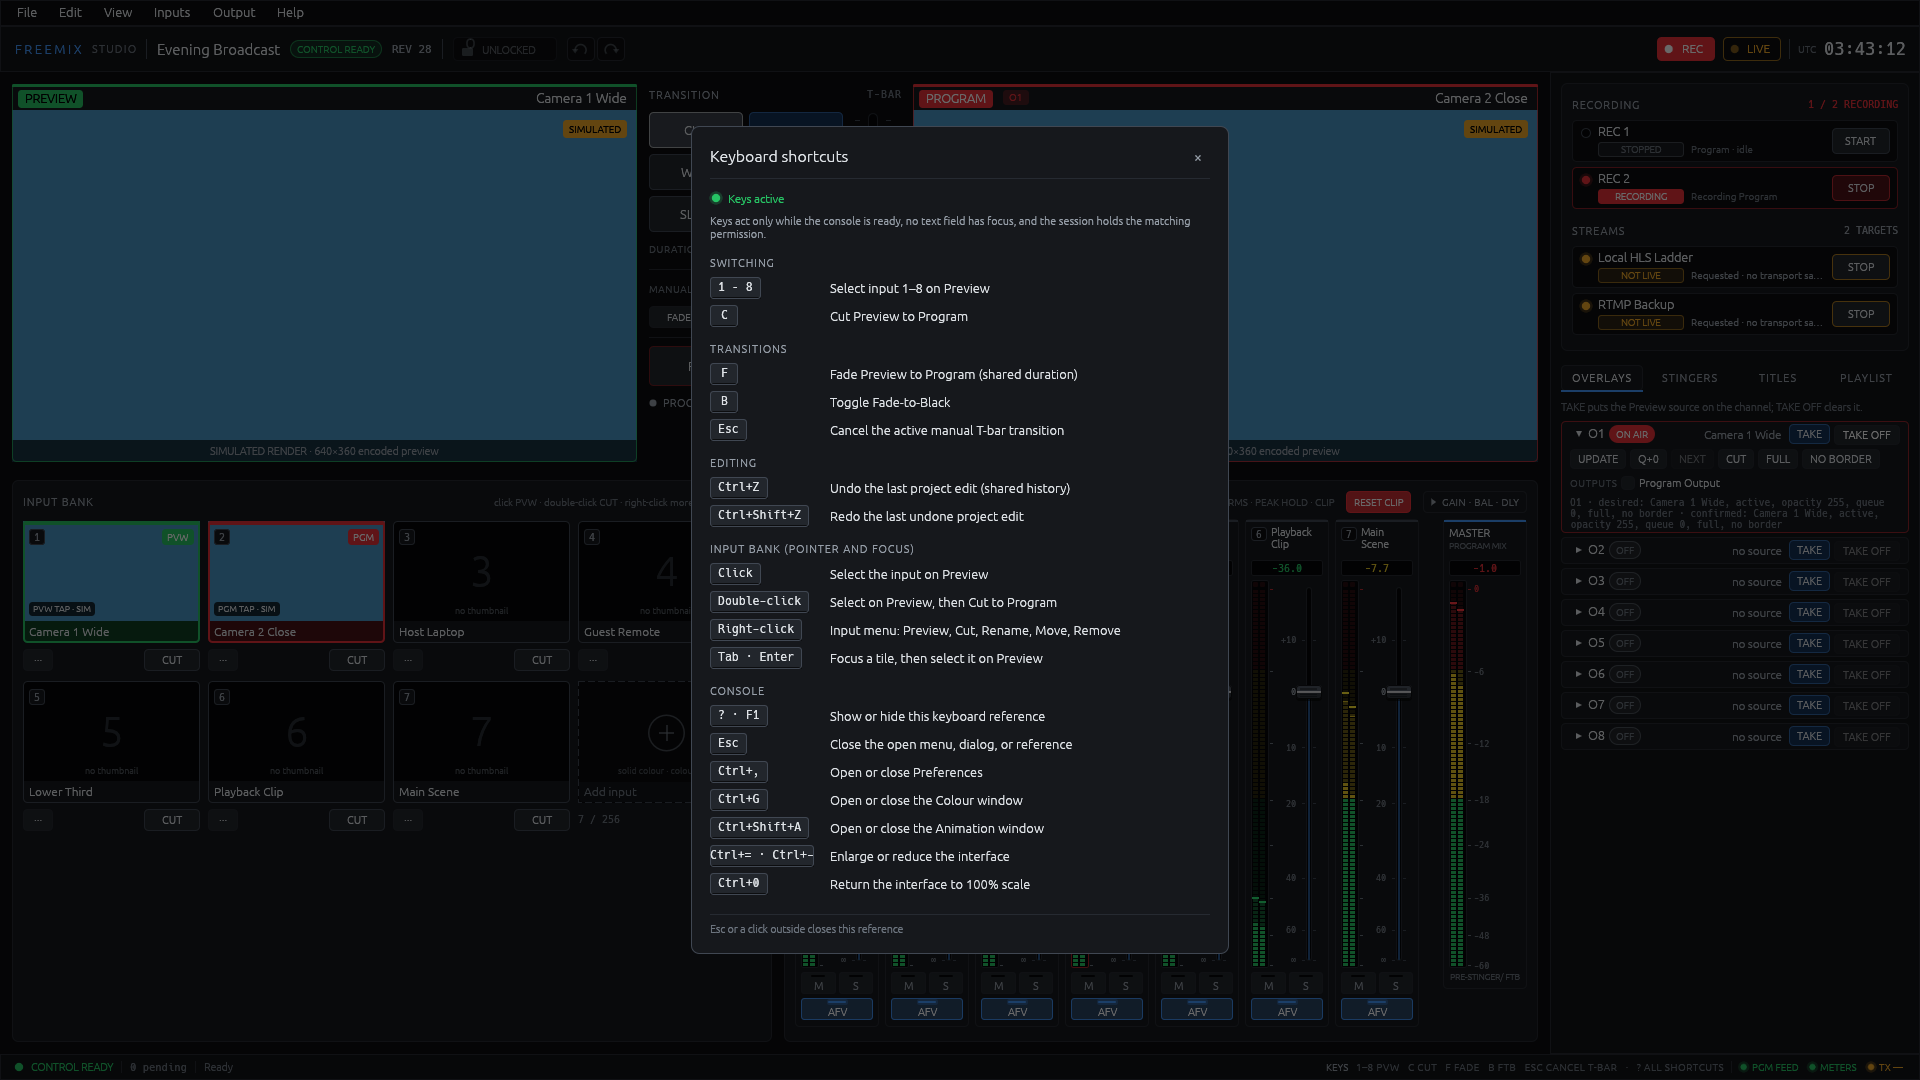
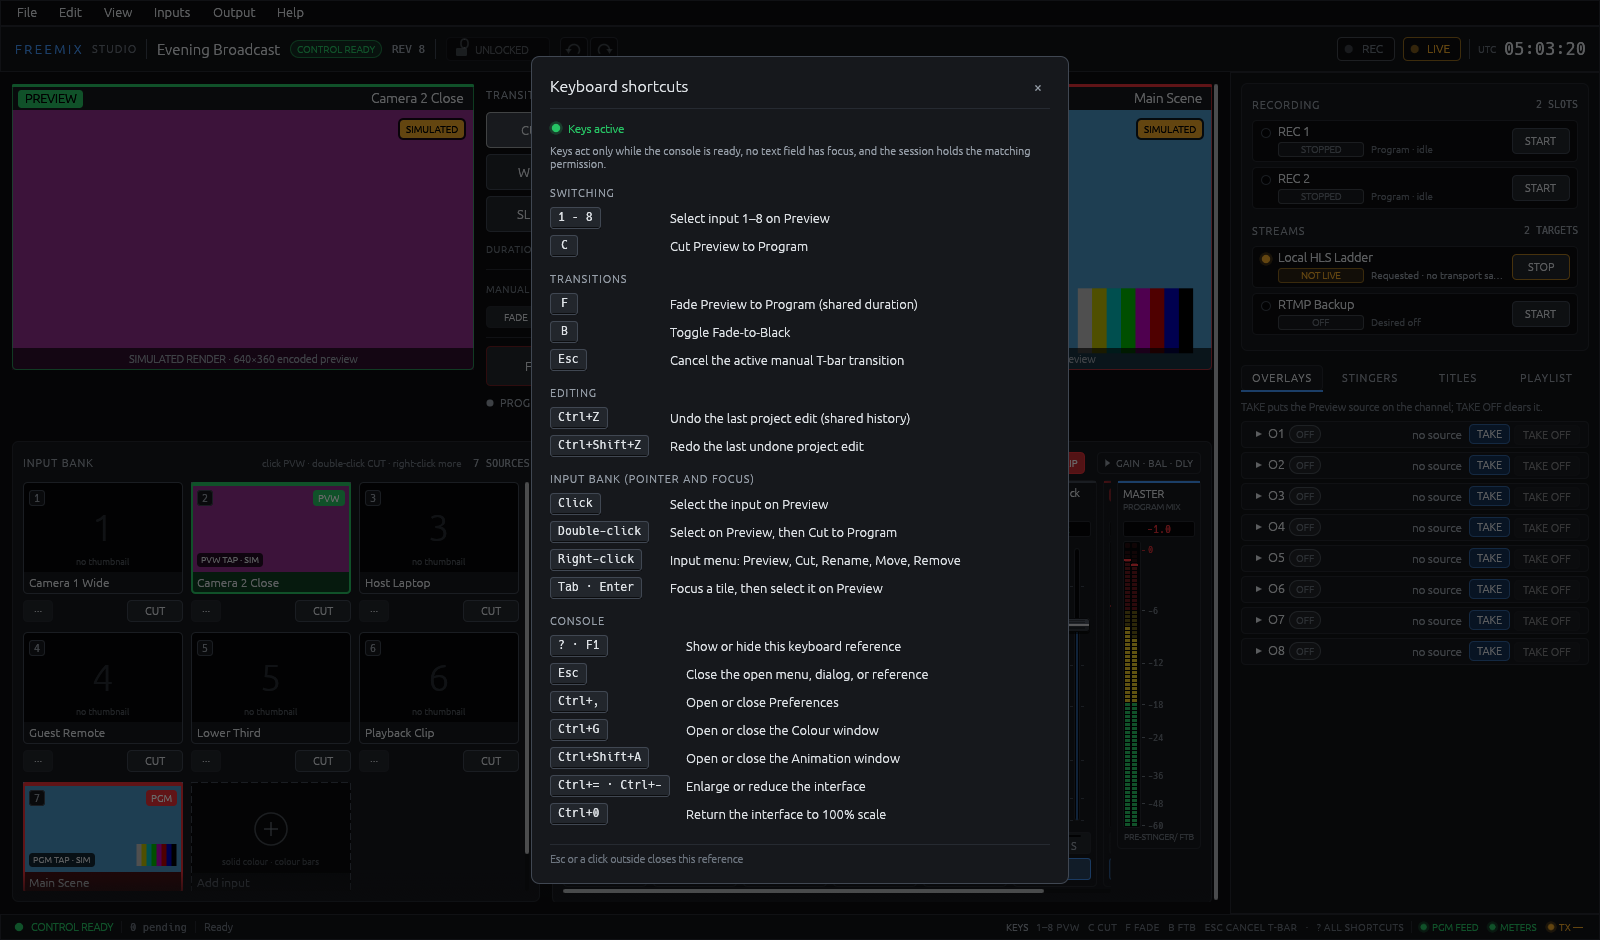
docs(progress): recapture screenshots after the screenshot-review fixes
Top, input menu, keyboard reference (en/es), reconnecting (en/es), manual
transition, and preferences; document the playlist pause fix.

diff --git a/docs/progress/README.md b/docs/progress/README.md
@@ -268,13 +268,13 @@ the counts and lock chips.
 | `studio-console-production.png` | 1920x1080 `--role admin`, a realistic production state (2026-10-15): the looping playlist running on the Playlist tab (`PLAYING`, red `REMAINING -00:09:47:45` of `00:10:00:00`, entry 01 Guest Remote `ON AIR`, entry 02 `NEXT`) has cut Guest Remote to Program, where it airs with the saved library grade "Guest warm" (Warm look, saturation 110 %, applied by freemixd: the white and grey bars read beige); the animated Lower Third title (input 8, Bar/Accent/Name/Role In phase of 150 frames) was taken to O1 and sits composited over it (`O1` badge on the Program header); REC 2 is `RECORDING` (red `REC` badge, `1 / 2 RECORDING`); the HLS ladder stays `NOT LIVE`. The simulated Program tap showed the title already at its final pose 0.4 s after `TAKE` even with a five-second In phase, so this is the held state rather than a mid-In frame. |
 | `studio-console-overview.png` | 1920x1080 overview: REC 2 recording (red lamp, solid `RECORDING` chip, lit red `STOP` key, header `1 / 2 RECORDING`, red `REC` badge lit), overlay O1 taken from Preview and confirmed `ON AIR` with its `TAKE OFF` key (composited into the Program frame and badged on the Program header), the HLS ladder `NOT LIVE` with its amber `STOP`, the stopped RTMP target with a neutral `START`. The manual transition block and the mixer strips show their simpler default: the `▸ DETAILS` and `▸ GAIN · BAL · DLY` disclosure keys keep the manual position/commit/cancel controls and the per-strip gain, balance, and delay fields out of view. |
 | `studio-console-hover-help.png` | The same session hovering `FADE`: the tooltip says what the key does in operator language and names its shortcut (`Fade Preview to Program over the shared duration  [F]`). Every interactive control carries help like this (RC-018). |
-| `studio-console-manual-transition.png` | 1920x1080 after manual `FADE` and a T-bar drag: the amber `T-BAR 58%` header, and, although `▸ DETAILS` is still collapsed, the position field (`5833 bp`), the active `COMMIT`/`CANCEL` keys, and the amber status card naming the transition, sources (`Camera 2 Close ▶ Camera 1 Wide`), and position appear on their own while the transition is in flight; the automatic transition keys are dimmed. |
+| `studio-console-manual-transition.png` | 1920x1080 after manual `FADE` and a T-bar drag: the amber `T-BAR 58%` header, and, although `▸ DETAILS` is still collapsed, the fixed-width position field (`5833 bp`) and the active `COMMIT`/`CANCEL` keys take the place of the manual start keys while the transition is in flight, so the input bank and mixer below do not move; the automatic transition keys are dimmed. |
 | `studio-console-fade-to-black.png` | 1920x1080 after `FTB` (with REC 2 recording and O1 on air): the lit red `FTB ON` key, the realized status line `PROGRAM BLACK` with its full red level bar, and the `FTB` badge on the Program canvas. |
 | `studio-console-streams.png` | 1920x1080 after clicking `START` on the RTMP Backup row: both targets desired on with amber `NOT LIVE` chips and amber-outlined `STOP` keys, and the Output menu with `NOT LIVE` beside both Stop items and `RECORDING` beside Stop recorder 2. |
 | `studio-console-stingers.png` | 1920x1080, Stingers tab after choosing Playback Clip in the Configure media picker and clicking `ASSIGN` for S1: the S1 card lit green `READY` with its media name, the Configure card's green `READY` chip, enabled `CLEAR`, and the replicated cut point (15 fr), preload, audio, and fallback. |
 | `studio-console-titles.png` | 1920x1080 `--role admin`, Titles tab (Protocol 2.24) listing Lower Third (taken to O1, red `ON AIR` badge, its bar composited into the simulated Program frame) and Score Bug (`OFF AIR`); the Lower Third editor with text, colour (swatch + `#RRGGBBAA`), and number fields, the edited Role and Bar colour fields marked `EDITED` with per-field `Discard` keys and an accent marker, the `PREVIEWED` frame showing the draft values to air, the `CHANNEL` picker, `UPDATE LIVE` and `OFF AIR` keys, and the disabled `TAKE` tooltip `Unavailable: the title is on air`. |
 | `studio-console-playlist.png` | 1920x1080 `--role admin`, Playlist tab (Protocol 2.26) with the looping playlist running in the simulated daemon: the `PLAYING` chip, the red `REMAINING` countdown `-00:00:41:08` with `of 00:00:45:00`, `ON AIR · Guest Remote` and the green `Next: Main Scene` line, loop `ALL`, the `START`/`STOP`/`PAUSE`/`PREVIOUS`/`NEXT` keys (Start disabled while running), five entries with transition and monospace duration, entry 04 lit red `ON AIR` with the same `-00:00:41:08` countdown as the card (countdowns carry a leading minus everywhere; durations never do), entry 05 lit green `NEXT`, the disabled entry 03 marked `SKIPPED`, and the New entry form disabled with "Unavailable: the playlist is running; stop it to change the list". |
-| `studio-console-top.png` | The default 1600x940 window, idle: the top-bar padlock (`UNLOCKED`) with disabled Undo/Redo keys (the operator session lacks `edit_project`), both recorder rows `STOPPED` with neutral `START` keys, overlays collapsed to one row per channel. |
+| `studio-console-top.png` | The default 1600x940 window, idle: the top-bar padlock (`UNLOCKED`) with disabled Undo/Redo keys (the operator session lacks `edit_project`), both recorder rows `STOPPED` with neutral `START` keys, overlays collapsed to one row per channel; the console's and mixer's scroll bars stay visible while idle so the clipped third bank row and mixer strips are discoverable, and the `SIMULATED` badges sit on a dark ring. |
 | `studio-console-stopped.png` | The compact 1280x800 layout: the side panel narrows to 320 px so the monitors keep their width; the input bank header keeps `7 SOURCES` and drops the gesture hint; the mixer scrolls inside its card and the Master strip stays pinned, its short scale dropping the crowded `-48` label. |
 | `studio-console-compact-720.png` | 1280x720: the same compact layout at the smallest supported height; the console scrolls to reach the lower row. |
 | `studio-console-recording.png` | 1920x1080 with REC 2 `RECORDING` / lit `STOP`, both streams `NOT LIVE`, and the Stingers tab: eight empty slot cards (S1 outlined), the shared duration line, and the Configure card listing the defaults `ASSIGN` would apply. |
@@ -284,11 +284,11 @@ the counts and lock chips.
 | `studio-console-mixer.png` | Mixer crop at 1920x1080 (admin) after opening the header's `▾ GAIN · BAL · DLY` disclosure, with Camera 1 Wide at -6.0 dB, Camera 2 Close muted and balanced L25 (lit red M, red cap index line, grey fill), Guest Remote soloed at +4.5 dB with AFV off and 480 samples delay (lit amber S), Lower Third at -18.0 dB with AFV off, Playback Clip muted at -inf, on the synthetic meter feed: expanded-scale meters with green/amber/red zones, bright RMS and dim peak segments, held-peak markers, Guest Remote's latched clip lamps and red `CLIP` readout, `RESET CLIP`, and the signed Master scale `0 … -60`. The synthetic levels ignore strip gain and mute. |
 | `studio-console-2560.png` | 2560x1440: larger monitors, input tiles of about 290 px in four columns, mixer faders with the full 620 px travel, and 120-segment meters; the side panel stops at 560 px. |
 | `studio-console-portrait.png` | 1920x1080 with the demo project's video settings changed to 1080x1920 (Main Scene layers refitted): both wells grow to half the console height and pillarbox the 202x360 portrait frames; the tiles borrowing the frames pillarbox them too. |
-| `studio-console-shortcuts.png` | The keyboard reference opened with `?`: the green `Keys active` lamp, the reference generated from the same table the console's key handler is tested against, with fixed-width key caps (including Ctrl+Z / Ctrl+Shift+Z) and the Console group (`? · F1`, `Esc`, `Ctrl+,`, `Ctrl+G` for the Colour window, `Ctrl+Shift+A` for the Animation window, the scale keys). |
-| `studio-console-spanish-shortcuts.png` | The same reference in Spanish, opened with F1 during the `--lang es` session (REC 2 recording, O1 on air and open): `Atajos de teclado`, `Teclas activas`, the `Consola` group. |
+| `studio-console-shortcuts.png` | The keyboard reference opened with `?`: the green `Keys active` lamp, the reference generated from the same table the console's key handler is tested against, with key caps of a fixed minimum width that grow with long combinations (including Ctrl+Z / Ctrl+Shift+Z) and the Console group (`? · F1`, `Esc`, `Ctrl+,`, `Ctrl+G` for the Colour window, `Ctrl+Shift+A` for the Animation window, the scale keys). |
+| `studio-console-spanish-shortcuts.png` | The same reference in Spanish, opened with F1 during a 1920x1080 `--lang es` session: `Atajos de teclado`, `Teclas activas`, the `Consola` group, and key names in Spanish (`Ctrl+Mayús+Z`, `Tab · Intro`, `Ctrl+Mayús+A`). |
 | `studio-console-health-strip.png` | 1920x1080 demo show hovering the `TX —` lamp: the status bar's health strip (`PGM FEED` and `METERS` green, `TX —` amber because the HLS ladder is desired but not live and the simulated daemon sends no transport samples) and its tooltip `Streams: 0 of 2 live · no recent transport samples to measure the rate · 0 A/V pairs dropped`. The key hints end in `? ALL SHORTCUTS`. |
 | `studio-console-layout-restored.png` | Studio restarted on a `studio.conf` saved after dragging the side panel edge to 480 px and hiding the mixer from View: the restored layout (input bank across the full width, 480 px side panel) with View open (`Colour grade…  Ctrl+G`, `Animate title…  Ctrl+Shift+A`, the Panels checkboxes, the Advanced controls toggles, the Side panel tab choice, Language, 12-hour clock), and the enabled `Reset layout` item with its tooltip. |
-| `studio-console-input-menu.png` | Right-click menu on the Host Laptop tile: key cap and name header, Select on Preview / Cut to Program / `Grade…` enabled, Rename, Move, and Remove disabled, and the footer note that the operator session lacks `edit_project`. |
+| `studio-console-input-menu.png` | Right-click menu on the Host Laptop tile: key cap and name header, Select on Preview / Cut to Program enabled, `Grade…`, Rename, Move, and Remove disabled, and the footer note that the operator session lacks `edit_project`. |
 | `studio-console-add-input.png` | 1920x1080 admin session after clicking the `+` tile: the Add input dialog with `SOLID COLOUR` selected, the suggested name "Solid Colour 1", the amber preset chosen (`#f0a828`), and the preview swatch tagged `INPUT 8` / `SILENT`. |
 | `studio-console-add-input-bars.png` | The same dialog for a second add with `COLOUR BARS`: the suggestion "Colour Bars 1", the bars preview tagged `INPUT 9`, no colour row. |
 | `studio-console-input-added.png` | After both adds and selecting Solid Colour 1 on Preview: tiles 8 (Solid Colour 1, `PVW`) and 9 (Colour Bars 1), the `+` tile with `9 / 256`, `9 SOURCES`, and a mixer strip for the new solid input. |
@@ -296,7 +296,7 @@ the counts and lock chips.
 | `studio-console-input-refused.png` | After removing Colour Bars 1 and then asking to remove Camera 1 Wide: the single refusal toast `Remove refused (conflict): "Camera 1 Wide" is a layer source of scene 100. Remove that reference offline first.` and the bank back at `8 / 256`. |
 | `studio-console-inputs-menu.png` | Inputs menu with the Catalogue group: `Add input…` and the `Remove input` submenu, where Main Scene (`PGM`) and Solid Colour 1 (`PVW`) are disabled with their tally marks. |
 | `studio-console-add-input-disabled.png` | Operator session hovering the dimmed `+` tile: the tooltip "Add input… A solid colour or colour bars, appended to the end of the bank. Unavailable: this session lacks the edit_project permission". |
-| `studio-console-reconnecting.png` | 1600x940 Studio started with `--connect` to an address with no daemon: the Reconnecting card with attempt count, retry delay, the last error, and the disabled-controls footer over the dimmed monitors; `NO STATE` chips, `— TARGETS`, `— SOURCES`, centered empty states for the input bank and mixer, and "No synchronized show" in the top bar (no edit group without synchronized state); the health strip's unlit `NO PGM FEED` and `NO METERS` lamps. |
+| `studio-console-reconnecting.png` | 1600x940 Studio started with `--connect` to an address with no daemon: the Reconnecting card with attempt count, retry delay, the last error in operator language (`The daemon refused the connection: it may not be running yet`), and the disabled-controls footer over the dimmed monitors; `NO STATE` chips, `— TARGETS`, `— SOURCES`, centered empty states for the input bank and mixer, and "No synchronized show" in the top bar (no edit group without synchronized state); the health strip's unlit `NO PGM FEED` and `NO METERS` lamps. |
 | `studio-console-spanish.png` | 1920x1080 demo show with Studio started with `--lang es`, REC 2 recording, and O1 taken and opened: the `PREVIO`/`PROGRAMA` tally chips, the lit red `DETENER` key of REC 2, neutral `INICIAR` keys, the overlay keys `TOMAR` / `RETIRAR` beside the `APAGADO` / `AL AIRE` state chips (button and state are distinct catalog keys since round 7), and the open O1 card's Spanish diagnostic line (`O1 · pedido: Camera 2 Close, activo, opacidad 255, cola 0, completo, sin borde · confirmado: …`), plus the Spanish mixer header (`RMS · RETENCIÓN · CLIP`, `BORRAR CLIP`). |
 | `studio-console-spanish-menu.png` | The same session with `Salida` open: every transition, Fade to black, T-bar, recorder (`Detener grabador 2` / `GRABANDO`), stream, and Stinger item worded in Spanish. |
 | `studio-console-spanish-input-refused.png` | 1920x1080 `--lang es --role admin` after asking to remove Camera 1 Wide: the localized refusal toast `Baja rechazada (conflict): «Camera 1 Wide» está en uso: a layer source of scene 100. Quite esa referencia sin conexión primero.` (the daemon's own reference detail is quoted as sent). |
@@ -308,14 +308,24 @@ the counts and lock chips.
 | `studio-console-spanish-compact.png` | 1280x800 `--lang es` with the Stingers tab: long Spanish labels and details ellipsize inside fixed-width keys and chips instead of overflowing; tooltips carry the full text. |
 | `studio-console-spanish-add-input.png` | 1920x1080 `--lang es --role admin`: the Añadir entrada dialog with `COLOR SÓLIDO`, the suggested name "Color sólido 1", the amber preset, and the preview tagged `ENTRADA 8` / `SIN AUDIO`. |
 | `studio-console-spanish-remove-input.png` | The Quitar entrada confirmation for "Color sólido 1" (entrada 8, posición 8) with the Spanish warning and the red `QUITAR` key. |
-| `studio-console-spanish-reconnecting.png` | 1600x940 `--lang es --connect` with no daemon: the Spanish Reconectando card (attempt, retry delay, last error, disabled-controls footer). |
-| `studio-console-preferences.png` | 1920x1080, File › Preferences… (or Ctrl+,) after choosing the 12-hour clock (the top-bar clock reads `10:20:35 PM`) and pressing Tab eight times: Language (each language named in itself), Clock, Display with the UI scale keys (`90%` to `150%`, `100%` selected) and the keyboard focus ring on `125%`, the High-contrast theme checkbox, the note that the choices live in `studio.conf` and that `--lang`/`--clock` win for their session, and the enabled `Reset to defaults` and `Done` keys. |
+| `studio-console-spanish-reconnecting.png` | 1600x940 `--lang es --connect` with no daemon: the Spanish Reconectando card (attempt, retry delay, the localized last error `El daemon rechazó la conexión: puede que aún no esté en marcha`, disabled-controls footer), the `TRANSMISIONES` heading, and dimmed `TOMAR` keys. |
+| `studio-console-preferences.png` | 1920x1080, File › Preferences… (or Ctrl+,): Language (each language named in itself), Clock (`24-hour` selected), Display with the UI scale keys (`90%` to `150%`, `100%` selected), the High-contrast theme checkbox, the note that the choices live in `studio.conf` and that `--lang`/`--clock` win for their session, and the enabled `Reset to defaults` and `Done` keys. |
 | `studio-console-high-contrast.png` | 1920x1080 with `ui.high_contrast = on` in `studio.conf` (REC 2 recording, O1 on air): pure black panels, cards, keys, and fields told apart by 2 px light-grey outlines, near-white text and muted text, captions, field labels, chips, and tab labels 1.5 pt larger, tile ordinals and `no thumbnail` in the palette's muted text instead of near-black grey, while the tally and status hues (red Program, `RECORDING`, `ON AIR`, green Preview, amber `NOT LIVE`) are unchanged. |
 | `studio-console-spanish-high-contrast.png` | The same high-contrast session with `--lang es`: the longer Spanish keys (`FUNDIDO`, `CORTINA`, `DETENER`, `RETIRAR`) fit their outlined keys at the larger label size. |
 | `studio-console-spanish-hover-help.png` | `--lang es`, REC 2 recording and O1 taken (`TOMAR`), hovering `FUNDIDO`: the Spanish help line with its shortcut (`Fundir Previo a Programa con la duración compartida  [F]`); the `▸ DETALLES` and `▸ GAN · BAL · RET` disclosure keys stand in for the hidden advanced controls. |
 | `color-panel.png` | The standalone colour grading panel (SW-019), rendered offscreen from the real widget by `cargo test -p fm-ui-egui write_color_panel_screenshot -- --ignored` (CPU rasterizer, no window). Top, Simple mode with the Warm look plus contrast: live look thumbnails of the preview picture, the gradient sliders, auto balance, the graded preview, and the RGB parade. Bottom, Advanced mode: the basic sliders with pivot, Lift/Gamma/Gain/Offset wheels with masters and reset keys, the master curve, the LUT slot (the LUT asset is not loaded, so previews say so), the wipe compare with its handle, and the vectorscope with 75% bar targets. |
 | `studio-color.png` | 1920x1080 `--role admin` on the demo show, Guest Remote (colour bars) cut to Program, its tile menu `Grade…` (also View › Colour grade… or Ctrl+G) opening the Studio Colour window bound to input 4, then the Warm look clicked: the grade went to freemixd as a `grade_input_set` command (REV 10 to 11), the target now reads `04 · Guest Remote · graded` with the `ON AIR` status, the Program monitor shows the server-applied warm grade, and the panel preview (held last ungraded frame, so the grade is not applied twice) shows the draft applied locally on CPU. Above the panel: the Library combo/Apply, Save to library, LUT import path with its 32 KiB limit caption pointing to `freemix-cli grade-import-lut`. |
 | `studio-animation.png` | 1920x1080 `--role admin` (GX-011), the demo show plus title input 8 "Lower Third" imported from a four-element `lower-third.fmtitle` (Bar, Accent, Name, Role) whose In phase was built with `freemix-cli title-animation-preset` (slide-from-left, wipe, fade on Bar, Accent, Name; Role left unanimated) and `title-animation-stretch` to 30 frames: Titles tab, the row's `Animate…` (also its context menu, View › Animate title…, or Ctrl+Shift+A) opening the Studio Animation window bound to the replicated `title_animation_state` and `title_layout_state` (Protocol 2.30), resized by its corner (remembered as `layout.animation_size` in `studio.conf`; `Dock` moves it under the monitors). Simple mode lists the elements by their template names with kind icons (rectangle, text), Role reading `No animation · pick a preset`; the ruler was clicked at frame 10, then Role's `Preset…` picker opened and the pointer rested on `Slide from bottom`: the canvas shows `PRESET PREVIEW`, the server's exact preview of the hovered preset at mid-phase (frame 15) with Role sliding up, the element outlines and onion skins drawn over it, and the item's hover help. Nothing is applied until the item is clicked, which sends one `title_animation_preset` (one undo step). |
+
+Screenshot-review fixes (2026-10-15, same protocol). These captures were taken
+again after the fixes: `-top` (visible scroll bars, a one-line Master
+label, dark rings behind the `SIMULATED` badges), `-input-menu` (`Grade…`
+disabled for the operator), `-shortcuts` and `-spanish-shortcuts` (key caps
+grow with their text; Spanish names the keys `Mayús` and `Intro`),
+`-reconnecting` and `-spanish-reconnecting` (a friendly, localized last error
+instead of `Io(ConnectionRefused)`; dimmed `CUT`/`TAKE` keys),
+`-manual-transition` (the lower row no longer moves), and `-preferences`
+(`--lang`/`--clock` in monospace). Other captures predate these fixes.
 
 Recapture of 2026-10-15 (Protocol 2.30, after UI round 11 and the
 Protocol 2.27-2.30 title phases, grading, Colour window, and Animation window
@@ -593,9 +603,12 @@ stream targets). The round 10 English capture was taken about 50 seconds
 after `start` without a restart. The Spanish capture was taken after Studio
 was restarted on the same project while the playlist ran, so the tab shows
 the `playlist_state` that follows the snapshot; it first runs `remote-playlist 127.0.0.1:7000 pause` and adds `--lang
-es`. The simulated daemon executes Pause at its frame cursor, which lags wall
-time between playlist boundaries, so a paused entry can show less elapsed
-time than actually played.
+es`. Until the screenshot-review fixes below, the simulated daemon executed
+Pause at its frame cursor, which lagged wall time between playlist
+boundaries, so this capture's paused entry shows only its transition's 24
+frames elapsed (`-00:00:44:36`) although it had played for about 43 s; a
+playlist control now first catches the simulated engine up to the show's
+wall-clock frame.
 
 The UI round 7 captures build Studio with the `capture-meter-signal` feature
 (`cargo build -p freemix-studio --features capture-meter-signal`) and run it
